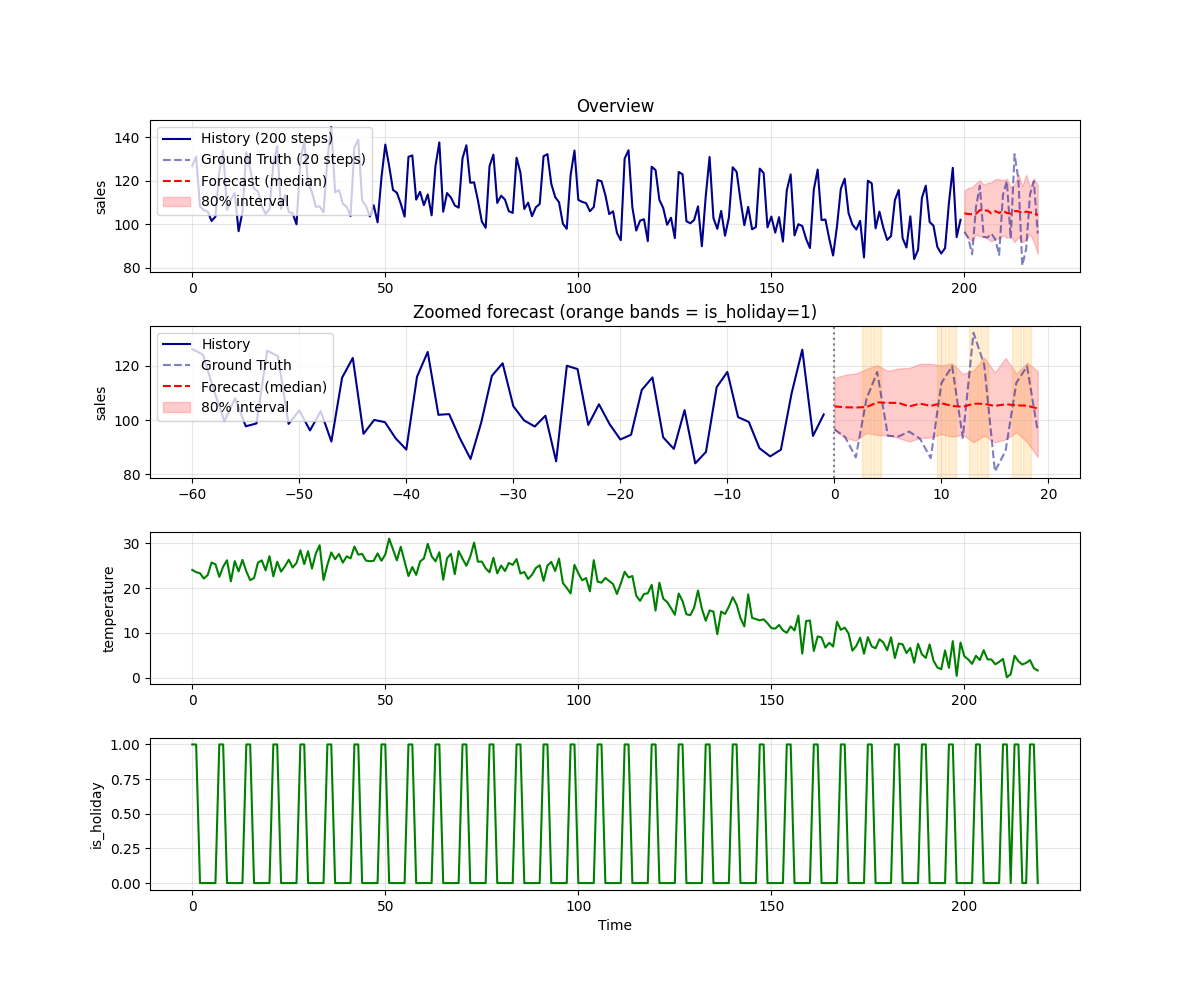
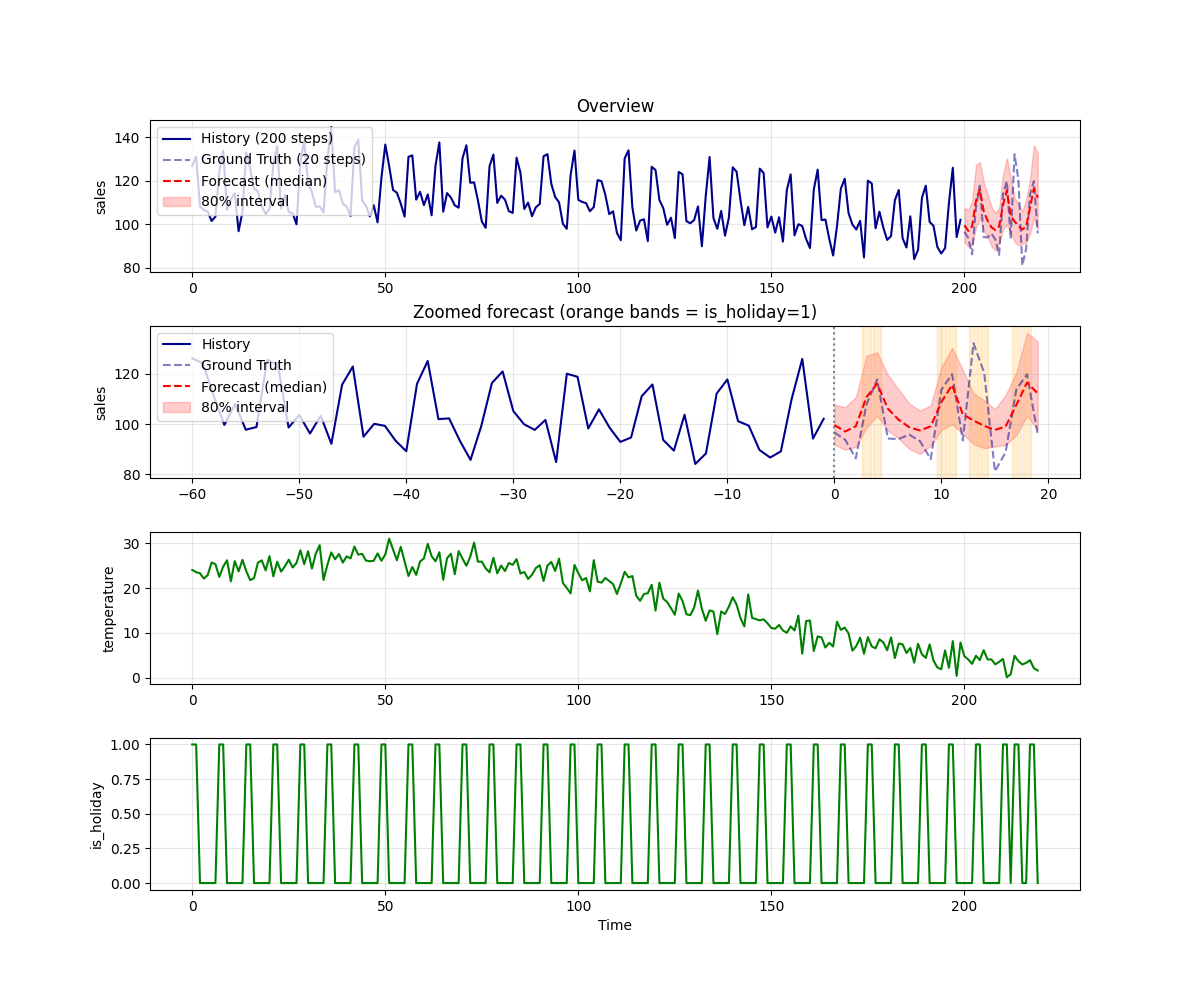
Recommend --patch_size 16 for covariate use in Moirai README
When relying on feat_dynamic_real, the choice of patch_size matters far
more than the model size: auto mode picks a patch size that minimises the
past-window val_loss, which on the konbini example averages the day-level
holiday signal inside one token and erases the covariate effect.
Document the small/base/large x patch_size grid we measured, recommend
p=16 (or 32) explicitly, and regenerate output.png with --patch_size 16
so the holiday spikes line up with the orange bands.

https://claude.ai/code/session_01PCJnfNg9NjWrp7ZmX5vcHJ

diff --git a/time_series_forecasting/moirai/README.md b/time_series_forecasting/moirai/README.md
@@ -42,7 +42,7 @@ the konbini example from
 [issue #1854](https://github.com/ailia-ai/ailia-models/issues/1854):
 
 ```bash
-$ python3 moirai.py --target sales --feat temperature,is_holiday
+$ python3 moirai.py --target sales --feat temperature,is_holiday --patch_size 16
 ```
 
 You can switch between the three publicly released Moirai-1.1-R sizes (each
@@ -72,6 +72,37 @@ $ python3 moirai.py --num_samples 200 --seed 0
 ```
 
 By default the ailia SDK is used. Pass `--onnx` to use ONNX Runtime instead.
+
+### Choosing `--patch_size` when using covariates
+
+Moirai compresses every `patch_size` consecutive timesteps of each variable
+(target *and* `feat_dynamic_real`) into a single transformer token. If
+`patch_size` is too large, day-level covariate spikes (e.g. `is_holiday=1`
+on Dec 24-25) get averaged inside one token and the model can no longer
+condition the forecast on them.
+
+The default `--patch_size auto` picks the patch size that minimises the
+**past-window** validation loss; this is *not* always the best patch size
+for **utilising future covariates**. For the konbini example above we
+measured the median forecast gap between holiday and non-holiday days in the
+forecast horizon:
+
+| size  | auto  | p=8  | **p=16**  | p=32 | p=64 |
+|------:|------:|-----:|----------:|-----:|-----:|
+| small | +0.40 | -0.39 | **+8.54** | +7.40 | -0.65 |
+| base  | +0.86 | +0.16 | **+5.68** | +2.30 | -0.53 |
+| large | -1.07 | +0.02 | **+10.52**| +4.23 | -1.10 |
+
+(reference observed gap in the context window: +22.34)
+
+Three takeaways:
+1. **Pick `--patch_size 16` (or 32) explicitly when you rely on
+   `feat_dynamic_real`.** `auto` mode tends to under-utilise the covariate.
+2. **Bigger model size does not reliably help.** `large` only gives a small
+   bump over `small` at the same patch size, and is no better than `small`
+   under `auto`.
+3. **Choose `prediction_len` close to a multiple of the patch size** so the
+   forecast horizon is not split across half-empty patches.
 
 ## Reference
 
